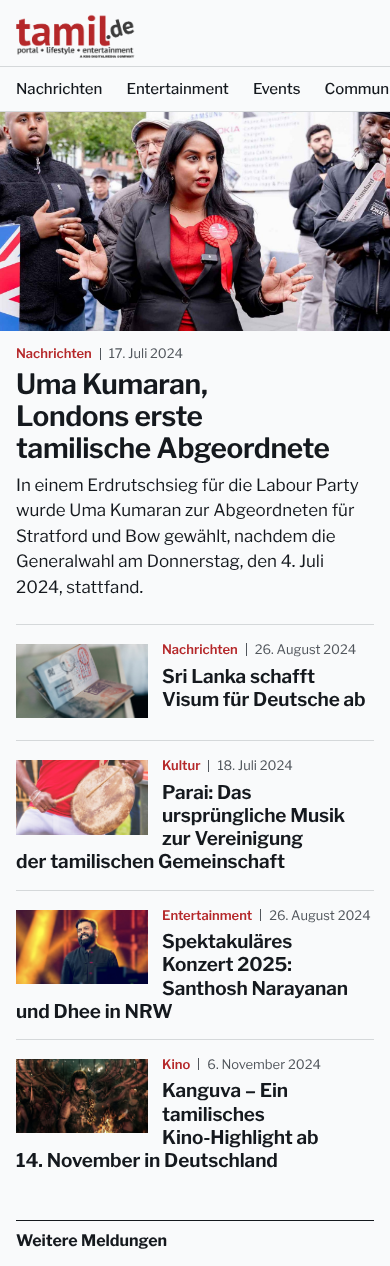
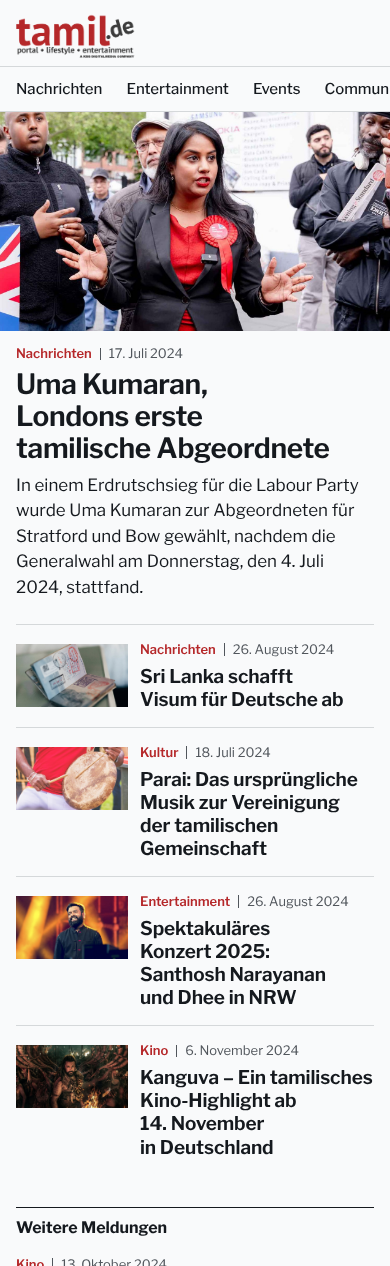
feat(design): Skizze klar, Nebenstücke am Handy in zwei festen Spalten
Bild 112 px links, Dachzeile und Schlagzeile mit einer gemeinsamen linken Kante
daneben, höchstens vier Zeilen; geschützte Umbrüche in Schlagzeilen; im
Dienstblock beginnen die drei Titel auf einer Höhe.

Claude-Session: https://claude.ai/code/session_01VBg2WFSs9tPNRidQXUcJan

Changed region(s): [[0.0308, 0.4929, 0.9538, 0.9242], [0.0308, 0.955, 0.4308, 1.0]]

diff --git a/design/richtungen/klar/klar.css b/design/richtungen/klar/klar.css
@@ -178,8 +178,8 @@ a:focus-visible {
 .stueck { border-top: 1px solid var(--linie); }
 .stueck .anr {
   display: grid;
-  grid-template-columns: 132px minmax(0, 1fr);
-  column-gap: 14px;
+  grid-template-columns: 112px minmax(0, 1fr);
+  column-gap: 12px;
   align-items: start;
   padding: 16px 0;
 }

diff --git a/design/richtungen/klar/begruendung.md b/design/richtungen/klar/begruendung.md
@@ -14,5 +14,5 @@
 - Nebenstücke am Handy: Bild 132 × 74 px, Dachzeile an der Bildunterkante, Schlagzeile darunter über die volle Breite. Daneben gesetzt liefen die Titel bei 120–132 px auf 4–5 Zeilen; der Brief erlaubt höchstens 3.
 - „Diese Woche“: Etiketten „Im Kino“ und „Termine“ in der Form der Dachzeile (13 px, Rot), Datum des Termins als Meta-Zeile (13 px, leise); am Desktop drei gleich breite Spalten mit derselben Linie und Oberkante. Vorspann der Nebenstücke am Desktop höchstens 31 em (≤ 66 Zeichen).
 - Klein: Rubrik „Nachrichten“ im Artikel als aktiv markiert (`aria-current`, Rot, 600); in „Küche“ nur noch das Datum statt Rubrik und Datum.
-- Prüfung r2: Nebenstücke am Handy wie BBC: Bild 132 × 74 px links (umflossen), Dachzeile und Schlagzeile ab der Bildoberkante mit gemeinsamer Kante, längere Titel laufen unter dem Bild weiter (Brief jetzt: höchstens vier Zeilen; gemessen 2/4/4/4).
+- Prüfung r2: Nebenstücke am Handy wie BBC in zwei festen Spalten: Bild 112 × 63 px links, Dachzeile und alle Zeilen der Schlagzeile rechts an einer Kante (kein Umfluss); 112 px, weil Kanguva ab 114 px auf fünf Zeilen läuft (gemessen 2/4/4/4).
 - Zeilenfall „14.&nbsp;November“ mit geschütztem Leerzeichen, „Kino-Highlight“ und „Dating-Event“ ungetrennt (`nowrap`, weil Libre Franklin keinen geschützten Bindestrich U+2011 hat); im Dienstblock Termindatum unter dem Titel, Linie unter „Im Kino“ über beide Kinospalten.
